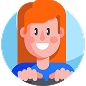
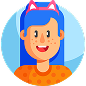
implement Register UI

diff --git a/lib/features/auth/register/presentation/screens/register_screen.dart b/lib/features/auth/register/presentation/screens/register_screen.dart
@@ -1,11 +1,16 @@
 import 'package:flutter/material.dart';
+import 'package:carousel_slider/carousel_slider.dart';
 import 'package:flutter_bloc/flutter_bloc.dart';
 import 'package:flutter_screenutil/flutter_screenutil.dart';
+import 'package:flutter_svg/svg.dart';
 import 'package:go_router/go_router.dart';
 import 'package:movies_app/core/constants/app_colors.dart';
 import 'package:movies_app/core/di/injection_container.dart';
 import 'package:movies_app/core/routes/app_router.dart';
 import 'package:movies_app/features/auth/register/presentation/cubit/register_cubit.dart';
+
+import '../widgets/ImageCarousel.dart';
+import '../widgets/default_text_form_field.dart';
 
 class RegisterScreen extends StatelessWidget {
   const RegisterScreen({super.key});
@@ -30,8 +35,23 @@ class _RegisterViewState extends State<_RegisterView> {
   final _usernameCtrl = TextEditingController();
   final _emailCtrl = TextEditingController();
   final _passwordCtrl = TextEditingController();
+  final _phoneCtrl = TextEditingController();
+  final _confirmPasswordCtrl = TextEditingController();
   final _formKey = GlobalKey<FormState>();
   bool _obscurePassword = true;
+  int selectedIndex =0;
+  final List<String> avatarPaths = [
+    'assets/images/avatar1.png',
+    'assets/images/avatar2.png',
+    'assets/images/avatar3.png',
+    'assets/images/avatar4.png',
+    'assets/images/avatar5.png',
+    'assets/images/avatar6.png',
+    'assets/images/avatar7.png',
+    'assets/images/avatar8.png',
+    'assets/images/avatar9.png',
+  ];
+
 
   @override
   void dispose() {
@@ -58,66 +78,69 @@ class _RegisterViewState extends State<_RegisterView> {
         backgroundColor: AppColors.background,
         appBar: AppBar(
           leading: const BackButton(),
-          title: const Text('Create Account'),
+          title: const Text('Register'),
         ),
         body: SingleChildScrollView(
-          padding: EdgeInsets.symmetric(horizontal: 24.w, vertical: 24.h),
+          padding: EdgeInsets.symmetric(horizontal: 18.w, vertical: 20.h),
           child: Form(
             key: _formKey,
             child: Column(
-              crossAxisAlignment: CrossAxisAlignment.start,
+              crossAxisAlignment: CrossAxisAlignment.center,
               children: [
-                Text('Join CineYTS',
-                    style: Theme.of(context).textTheme.headlineLarge),
-                SizedBox(height: 8.h),
-                Text('Create an account to get started',
-                    style: Theme.of(context).textTheme.bodyMedium),
-                SizedBox(height: 40.h),
-                TextFormField(
-                  controller: _usernameCtrl,
-                  style: const TextStyle(color: AppColors.white),
-                  decoration: const InputDecoration(
-                    hintText: 'Username',
-                    prefixIcon:
-                        Icon(Icons.person_outline, color: AppColors.hint),
-                  ),
-                  validator: (v) => v!.isEmpty ? 'Required' : null,
-                ),
-                SizedBox(height: 16.h),
-                TextFormField(
-                  controller: _emailCtrl,
-                  keyboardType: TextInputType.emailAddress,
-                  style: const TextStyle(color: AppColors.white),
-                  decoration: const InputDecoration(
-                    hintText: 'Email',
-                    prefixIcon:
-                        Icon(Icons.email_outlined, color: AppColors.hint),
-                  ),
-                  validator: (v) => v!.contains('@') ? null : 'Invalid email',
-                ),
-                SizedBox(height: 16.h),
-                TextFormField(
-                  controller: _passwordCtrl,
-                  obscureText: _obscurePassword,
-                  style: const TextStyle(color: AppColors.white),
-                  decoration: InputDecoration(
-                    hintText: 'Password',
-                    prefixIcon:
-                        const Icon(Icons.lock_outline, color: AppColors.hint),
-                    suffixIcon: IconButton(
-                      icon: Icon(
-                        _obscurePassword
-                            ? Icons.visibility_off
-                            : Icons.visibility,
-                        color: AppColors.hint,
-                      ),
-                      onPressed: () =>
-                          setState(() => _obscurePassword = !_obscurePassword),
+                CarouselSlider.builder(itemCount: avatarPaths.length,
+                    itemBuilder: (_, index, ind ) => Imagecarousel(avatarPath: avatarPaths[index]),
+                    options:  CarouselOptions(height: 115,
+                      enlargeCenterPage: true,
+                      enlargeFactor: 0.38,
+                      viewportFraction: 0.38
                     ),
-                  ),
-                  validator: (v) => v!.length < 6 ? 'Min 6 characters' : null,
                 ),
-                SizedBox(height: 32.h),
+                SizedBox(height: 10,),
+                Text('Avatar',style: Theme.of(context).textTheme.bodyLarge,),
+                SizedBox(height: 10,),
+                DefaultTextFormField(
+                  hintText: 'Name',
+                  prifixIconImageName: 'name',
+                  controller: _usernameCtrl,
+                  validator: (value){
+                    if(value == null ){
+                      return 'Enter your Name';
+                    }
+                    return null;
+                  },),
+                SizedBox(height: 16.h),
+                DefaultTextFormField(
+                  hintText: 'ُEmail',
+                  prifixIconImageName: 'email',
+                  controller: _emailCtrl,
+                  validator: (value){
+                    if(value == null || value.length<10){
+                      return 'Invalid email';
+                    }
+                    return null;
+                  },),
+                SizedBox(height: 16.h),
+                DefaultTextFormField(
+                  hintText: 'Password',
+                  prifixIconImageName: 'password',
+                  controller: _passwordCtrl,
+                  validator: (v) => v!.length < 6 ? 'Min 6 characters' : null,
+                isPassword: true,),
+                SizedBox(height: 16.h),
+                DefaultTextFormField(
+                  hintText: 'Password',
+                  prifixIconImageName: 'password',
+                  controller: _confirmPasswordCtrl,
+                  validator: (v) => v!=_passwordCtrl.text? 'invalid Password' : null,
+                isPassword: true,),
+                SizedBox(height: 16.h,),
+                DefaultTextFormField(
+                  hintText: 'Phone',
+                  prifixIconImageName: 'phone',
+                  controller: _phoneCtrl,
+                  validator: (v) => v!.length < 6 ? 'invalid phone number' : null,),
+
+                SizedBox(height: 30.h),
                 BlocBuilder<RegisterCubit, RegisterState>(
                   builder: (context, state) {
                     return ElevatedButton(
@@ -139,26 +162,73 @@ class _RegisterViewState extends State<_RegisterView> {
                     );
                   },
                 ),
-                SizedBox(height: 24.h),
+                SizedBox(height: 15.h),
                 Row(
                   mainAxisAlignment: MainAxisAlignment.center,
                   children: [
                     Text(
-                      'Already have an account? ',
-                      style: Theme.of(context).textTheme.bodyMedium,
+                      ' Already Have Account?',
+                      style: Theme.of(context).textTheme.bodyMedium!.copyWith(color: AppColors.white),
                     ),
                     GestureDetector(
                       onTap: () => context.pop(),
-                      child: const Text(
-                        'Login',
-                        style: TextStyle(
-                          color: AppColors.primary,
-                          fontWeight: FontWeight.w600,
-                        ),
+                      child:  Text(
+                        ' Login ',
+                        style:Theme.of(context).textTheme.bodyMedium!
+                            .copyWith(color: AppColors.primary,fontWeight: FontWeight.w900),
                       ),
                     ),
                   ],
                 ),
+                SizedBox(height: 20.h),
+                Center(
+                  child: Container(
+                    width: 102,
+                    decoration: BoxDecoration(
+                      border: Border.all(width: 2, color: AppColors.primary),
+                      borderRadius: BorderRadius.circular(30),
+                    ),
+                    //    padding: const EdgeInsets.all(6),
+                    child: Row(
+                      children: [
+                        GestureDetector(
+                          onTap: (){
+                            setState(() {
+                              selectedIndex = 0;
+                            });
+                          },
+                          child: Container(
+                              decoration: BoxDecoration(
+                                border: Border.all(
+                                  color: selectedIndex == 0 ? AppColors.primary : Colors.transparent,
+                                  width: 4,
+                                ),
+                                borderRadius: BorderRadius.circular(20),),
+                              child: SvgPicture.asset('assets/icons/LR.svg',width: 30,height: 30,)),
+                        ),
+                        Spacer(),
+                        GestureDetector(
+                          onTap: (){
+                            setState(() {
+                              selectedIndex = 1;
+                            });
+                          },
+                          child: Container(
+                              decoration: BoxDecoration(
+                                border: Border.all(
+                                  color: selectedIndex == 1 ? AppColors.primary : Colors.transparent,
+                                  width: 4,),
+                                borderRadius: BorderRadius.circular(20),),
+                              child: SvgPicture.asset('assets/icons/EG.svg',width: 30,height: 30,)),
+                        ),
+
+                      ],
+                    ),
+
+                  ),),
+
+
+
               ],
             ),
           ),
@@ -167,3 +237,5 @@ class _RegisterViewState extends State<_RegisterView> {
     );
   }
 }
+
+

diff --git a/lib/features/auth/login/presentation/screens/login_screen.dart b/lib/features/auth/login/presentation/screens/login_screen.dart
@@ -8,6 +8,8 @@ import 'package:movies_app/core/di/injection_container.dart';
 import 'package:movies_app/core/routes/app_router.dart';
 import 'package:movies_app/features/auth/login/presentation/cubit/login_cubit.dart';
 
+import '../../../register/presentation/widgets/default_text_form_field.dart';
+
 class LoginScreen extends StatelessWidget {
   const LoginScreen({super.key});
 
@@ -58,7 +60,7 @@ class _LoginViewState extends State<_LoginView> {
         backgroundColor: AppColors.background,
         body: SafeArea(
           child: SingleChildScrollView(
-            padding: EdgeInsets.symmetric(horizontal: 24.w, vertical: 32.h),
+            padding: EdgeInsets.symmetric(horizontal: 18.w, vertical: 20.h),
             child: Form(
               key: _formKey,
               child: Column(
@@ -67,46 +69,23 @@ class _LoginViewState extends State<_LoginView> {
                   SizedBox(height: 30.h),
                   Center(child: Image.asset('assets/images/logo2.png',width: 100,height: 100,)),
                   SizedBox(height: 50.h),
-                  TextFormField(
+                  DefaultTextFormField(
+                    hintText: 'ُEmail',
+                    prifixIconImageName: 'email',
                     controller: _emailController,
-                    keyboardType: TextInputType.emailAddress,
-                    style: const TextStyle(color: AppColors.white),
-                    decoration: InputDecoration(
-                      hintText: 'Email',
-                      prefixIcon: Padding(
-                        padding: const EdgeInsets.all(12.0),
-                        child: SvgPicture.asset('assets/icons/email.svg',
-                            colorFilter: ColorFilter.mode(AppColors.white,  BlendMode.srcIn)),
-                      ),
-                    ),
-                    validator: (v) => v!.isEmpty ? 'Required' : null,
-                  ),
+                    validator: (value){
+                      if(value == null || value.length<10){
+                        return 'Invalid email';
+                      }
+                      return null;
+                    },),
                   SizedBox(height: 20.h),
-                  TextFormField(
+                  DefaultTextFormField(
+                    hintText: 'Password',
+                    prifixIconImageName: 'password',
                     controller: _passwordController,
-                    obscureText: _obscurePassword,
-                    style: const TextStyle(color: AppColors.white),
-                    decoration: InputDecoration(
-                      hintText: 'Password',
-                      prefixIcon:
-                      Padding(
-                        padding: const EdgeInsets.all(12.0),
-                        child: SvgPicture.asset('assets/icons/password.svg',
-                            colorFilter: ColorFilter.mode(AppColors.white,  BlendMode.srcIn)),
-                      ),
-                      suffixIcon: IconButton(
-                        icon: Icon(
-                          _obscurePassword
-                              ? Icons.visibility_off
-                              : Icons.visibility,
-                          color: AppColors.hint,
-                        ),
-                        onPressed: () => setState(
-                            () => _obscurePassword = !_obscurePassword),
-                      ),
-                    ),
                     validator: (v) => v!.length < 6 ? 'Min 6 characters' : null,
-                  ),
+                    isPassword: true,),
                   SizedBox(height: 5.h),
                   Align(
                     alignment: Alignment.centerRight,
@@ -207,7 +186,7 @@ class _LoginViewState extends State<_LoginView> {
                               ),
                              borderRadius: BorderRadius.circular(20),),
                             child: SvgPicture.asset('assets/icons/LR.svg',width: 30,height: 30,)),
-                      ),
+                     ),
                       Spacer(),
                       GestureDetector(
                         onTap: (){

diff --git a/lib/core/theme/app_theme.dart b/lib/core/theme/app_theme.dart
@@ -20,38 +20,41 @@ class AppTheme {
           elevation: 0,
           centerTitle: true,
           titleTextStyle: TextStyle(
-            fontSize: 18.sp,
-            fontWeight: FontWeight.w600,
-            color: AppColors.white,
+            fontSize: 16.sp,
+            fontWeight: FontWeight.w400,
+            color: AppColors.primary,
             fontFamily: 'Poppins',
           ),
-          iconTheme: const IconThemeData(color: AppColors.white),
+          iconTheme: const IconThemeData(color: AppColors.primary),
         ),
         inputDecorationTheme: InputDecorationTheme(
           filled: true,
           fillColor: AppColors.surface,
+          //constraints: BoxConstraints(maxHeight: 52,minHeight: 52),
           contentPadding:
               EdgeInsets.symmetric(horizontal: 16.w, vertical: 14.h),
-          border: OutlineInputBorder(
-            borderRadius: BorderRadius.circular(15.r),
-            borderSide: BorderSide.none,
-          ),
           enabledBorder: OutlineInputBorder(
             borderRadius: BorderRadius.circular(15.r),
             borderSide: BorderSide.none,
           ),
           focusedBorder: OutlineInputBorder(
             borderRadius: BorderRadius.circular(15.r),
-            borderSide: const BorderSide(color: AppColors.primary, width: 1.5),
+            borderSide: const BorderSide(color: AppColors.primary, ),
           ),
           errorBorder: OutlineInputBorder(
             borderRadius: BorderRadius.circular(15.r),
-            borderSide: const BorderSide(color: AppColors.error, width: 1.5),
+            borderSide: const BorderSide(color: Colors.red, ),
           ),
+          focusedErrorBorder:  OutlineInputBorder(
+            borderRadius: BorderRadius.circular(15),
+            borderSide: BorderSide(color: Colors.red ),),
           hintStyle: TextStyle(
             color: AppColors.hint,
-            fontSize: 16.sp,
+            fontSize: 15.sp,
             fontWeight: FontWeight.w400
+          ),
+          errorStyle: TextStyle(
+            color: Colors.red
           ),
         ),
         elevatedButtonTheme: ElevatedButtonThemeData(
